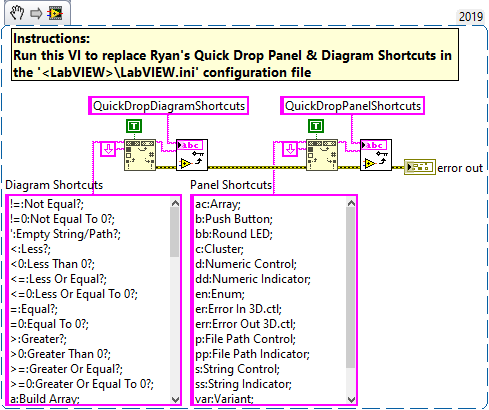
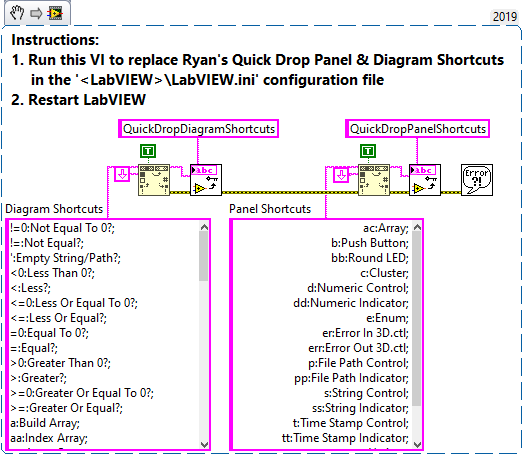
Updated docs

diff --git a/README.md b/README.md
@@ -1,88 +1,67 @@
 # labview_quickdrop
-Ryan's Quick Drop Shortcuts for LabVIEW "that you'll actually use..."
+Ryan's Quick Drop and IDE Plugins for LabVIEW
 
-## Releases
-To install, download and run the VI Package (\*.vip) using JKI's VI Package Management (VIPM) which is installed with LabVIEW.<br>
+After years of LabVIEW development, I got tired of doing the same thing over
+and over again. With the introduction of LabVIEW's Quick Drop Shortcuts, I
+started adding my own custom macros and IDE plugins to help expedite
+development and simplify style guide standardization.
+
+Here are a small collection of plugins I use daily to help expedite LabVIEW
+development.
+
+
+## Installation
+To install, download and run the VI Package (\*.vip) using JKI's VI Package Management (VIPM) which is installed with LabVIEW.
+
+| VI Package | LabVIEW | VIPM |
+| --- | --- | --- |
+| [ryans_quick_drop_shortcuts-0.3.0.23.vip](https://github.com/rcpacini/labview_quickdrop/raw/master/releases/ryans_quick_drop_shortcuts-0.3.0.23.vip) | LV2019+ | 2019+ |
+
 See [releases](releases) to download other versions.
 
-| VI Package | Version | LabVIEW |
-| --- | --- | --- |
-| [ryans_quick_drop_shortcuts-0.1.3.16.vip](https://github.com/rcpacini/labview_quickdrop/raw/master/releases/ryans_quick_drop_shortcuts-0.1.3.16.vip) | v0.1.3.16 | 2019 |
 
-Refer to the [Release Notes](docs/ReleaseNotes.md) for version information.<br>
+## Getting Started
+The package installs the Quick Drop Shortcuts and Tools Menu Plugins to
+`<LabVIEW>\resource\dialog\QuickDrop\plugins` and `<LabVIEW>\project`
+directories respectively.
 
-## Quick Drop - Panel & Diagram Shortcuts
-Download and run the following VI Snippet to replace the Quick Drop Panel & Diagram Shortcuts in the LabVIEW.ini configuration file.
 
-![Ryans Quick Drop Shortcuts](docs/PanelDiagramShortcuts.png)
+### Quick Drop - Plugins
+
+| Shortcut | Quick Drop Plugins |
+| --- | --- |
+| `Ctrl-A` | [Arrange Panel or Diagram](docs/Arrange.md) |
+| `Ctrl-E` | [Resize Window](docs/ResizeWindow.md) |
+| `Ctrl-S` | [Execute Script](docs/ExecuteScript.md) |
+
+
+### Quick Drop - Panel and Diagram Shortcuts
+
+**(Optional)** Run the [Panel and Diagram Shortcuts](https://github.com/rcpacini/labview_quickdrop/raw/master/QuickDrop/plugins/_Script/_PanelDiagramShortcuts.vi)
+VI to replace the Quick Drop Panel & Diagram Shortcuts.
+***Note: LabVIEW must be restarted to reload the Quick Drop Shortcuts.***
+
+![Ryans Quick Drop Shortcuts](docs/ShortcutsScreenshot.png)
 
 [Download](https://github.com/rcpacini/labview_quickdrop/raw/master/docs/PanelDiagramShortcuts.png)
 
-## Quick Drop Shortcuts - Plugins
-There are a total of 4 Quick Drop Plugins I use daily:
 
-| Key | Plugin |
+### Tools Menu - Plugins
+
+| Tools Menu Plugins | Description |
 | --- | --- |
-| `Ctrl-A` | [Arrange Diagram](#ctrl-a-=-arrange-diagram) |
-| `Ctrl-E` | [Resize Diagram](#ctrl-e-=-resize-diagram) |
-| `Ctrl-G` | [Get Object Info](#ctrl-g-=-get-object-info) |
-| `Ctrl-S` | [Execute Script](#ctrl-s-=-execute-script) |
+| [`Tools > Project Properties...`](docs/ProjectProperties.md) | View VI Properties for the entire Project side-by-side. |
 
-I quickly realized there aren't enough keys on the keyboard for each Quick Drop shortcut I needed. So instead, I created the **Execute Script** plugin which uses the Quick Drop Textbox to define a series of commands to execute on the selected panel or diagram objects. The plugin includes built-in help and a shortcut configuration editor (similar to the Quick-Drop Plugins dialog). <br>
-Refer to the [Execute Script](docs/ExecuteScript.md) for support to add your own extensions.
+## Build
+To edit the source code, open the `QuickDrop\RyansQuickDropShortcuts.lvproj`
+project in LabVIEW 2019+, keep the `VI_Tree.vi` open to ensure all VI
+dependencies are loaded while editing. Save the project.
 
-### `Ctrl-A` = Arrange Diagram
-Arranges diagram (`Ctrl-A`) cleans up the selected block diagram objects using their adjacent position of the source or destination terminals (left-to-right or right-to-left). If nothing is selected, this horizontally aligns the top level diagram control and indicator terminals. `Ctrl-Shift-A` reverses the order to arrange the diagram (right-to-left). Use these in combination to clean up the block diagram quickly.
+To rebuild the VI Package, open the `QuickDrop\RyansQuickDropShortcuts.vipb`
+VI Package Build in VI Package Manager 2019+, edit the package details.
+Press Build to output the VI Package (\*.vip) into the `releases` directory.
 
-Object alignment depends on the **number of connected terminals** and the **arrange order (Left-to-Right or Right-to-Left)**. If more that one terminal is connected, the following defines which terminal used to align:
-
-| # Ins | # Outs | `Ctrl=-A` (L2R) | `Ctrl-Shift-A` (R2L) |
-| --- | --- | --- | --- |
-| 1+ | 0 | Bottom-Left Input | Top-Left Input |
-| 0 | 1+ | Bottom-Right Output | Top-Right Output |
-| 1+ | 1+ | Bottom-Left Input | Bottom-Right Output |
-
-![Arrange Diagram gif](docs/ArrangeDiagram.gif)
-
-
-### `Ctrl-E` = Resize Diagram
-Resizes the block diagram window to fit the content. (Front Panel focus does nothing).
-
-![Resize Diagram gif](docs/ResizeDiagram.gif)
-
-
-### `Ctrl-G` = Get Object Info
-Displays basic information about the panel or diagram object selected such as VI Server Class ID, Class Name, Class Hierarchy, Master Bound Rectangle, etc. This is useful during development of VI Scripting.
-
-![Get Object Info gif](docs/GetInfo.gif)
-
-
-### `Ctrl-S` = Execute Script
-Executes a series of VI scripts (i.e. macros) using the Quick Drop textbox arguments (separated by space) on the selected panel or diagram objects. By default, there are a bunch of [Built-in Scripts](docs/ExecuteScript.md) for common operations, such as: align + distribute objects, connect terminals to pane, change representation and hide/show display objects. <br>
-Refer to the [Execute Script](docs/ExecuteScript.md) page for more information.
-
-Getting Started: `Ctrl-Space + "help" + Ctrl-S`
-
-![Execute Script Help gif](docs/ExecuteScriptHelp.gif)
-
-*Script Example:*<br> Select a Numeric Control, open Quick Drop (`Ctrl-Space`), type `u8 h rx -- Data in`, then press `Ctrl-S` to change the selected numeric control to **U8 representation**, hide the **+/- buttons** and display the **radix in hex** and rename the label to **"Data in"**.
-
-![Execute Script gif](docs/ExecuteScript.gif)
-
-#### Ctrl-S | Execute Script - Custom Plugins
-Create your own script plugins using the VI Template:<br>
-`<labview>\resource\dialog\QuickDrop\plugins\_Script\Script_Template.vit`.<br>
-Save the VI to the `_Script` directory and edit the VI Description to update the `[SCRIPT]` section with `shortcut=Short Name` (key=value) pairs for the supported shortcuts. <br>
-Refer to the [Execute Script](docs/ExecuteScript.md) page for more information.
-```ini
-// Add VI description
-
-[SCRIPT]
-abc=My Shortcut
---xyz=My Shortcut with Args
-```
-
-## Support
+## Contribution
 Submit a ticket for bug fixes or feature requests. Feedback is welcome!
 
 -Ryan

diff --git a/docs/ExecuteScript.md b/docs/ExecuteScript.md
@@ -1,10 +1,20 @@
-# Ctrl-S | Execute Script
-Executes a series of VI scripts (i.e. macros) using the Quick Drop textbox arguments (separated by space) on the selected panel or diagram objects. By default, there are a bunch of [Built-in Scripts](#script-built-ins) for common operations, such as: align + distribute objects, connect terminals to pane, change representation, hide/show display objects, etc. <br>
+# `Ctrl-S` = Execute Script
+Executes a series of VI scripts (i.e. macros) using the Quick Drop Textbox
+arguments (separated by space) on the selected panel or diagram objects.
+Many scripts are [Built-in](#script-built-ins) for common operations, such as:
+align + distribute objects, connect terminals to pane, change representation,
+hide/show display objects, etc.
 
 Getting Started: `Ctrl-Space` + type "`help`" + `Ctrl-S`
 
 ## Background
-I quickly realized there aren't enough keys on the keyboard for each Quick Drop Plugin needed. So instead, I created the Execute Script plugin which uses the Quick Drop Textbox to define a series of commands to execute on the selected panel or diagram objects. The plugin includes built-in help and a shortcut configuration dialog (similar to the Quick-Drop Plugins dialog) to manage the shortcuts. Refer to [Custom Plugins](#custom-plugins) for support on how to add your own scripts.
+I quickly realized there aren't enough keys on the keyboard for each Quick
+Drop Plugin needed. So instead, I created the Execute Script plugin which uses
+the Quick Drop Textbox to define a series of commands to execute on the
+selected panel or diagram objects. The plugin includes built-in help and a
+shortcut configuration dialog (similar to the Quick-Drop Plugins dialog) to
+manage the shortcuts. Refer to [Custom Plugins](#custom-plugins) for support
+on how to add your own scripts.
 
 ## Script Built-ins
 The following are Built-in shortcuts supported out of the box.
@@ -67,8 +77,7 @@ The following are Built-in shortcuts supported out of the box.
 | `csg` | Change to CSG |
 | `cdb` | Change to CDB |
 | `cxt` | Change to CXT |
-| `v` | Show Label |
-| `vv` | Hide Label |
+
 
 
 Supports | GObject | Selection
@@ -76,7 +85,9 @@ Supports | GObject | Selection
 ### `aa` = Align Left Edges
 Support: `FP / BD` | GObject: `Any` | Selection: `2+`
 
-Aligns the selected panel or diagram objects by edges or centers. This ignores any display objects (i.e. labels, captions, +/- buttons, index display, etc.) during alignment. Requires 2 or more objects selected.
+Aligns the selected panel or diagram objects by edges or centers.
+This ignores any display objects (i.e. labels, captions, +/- buttons, index
+display, etc.) during alignment. Requires 2 or more objects selected.
 
 ![Built-in Align gif](docs/BuiltinAlign.gif)
 
@@ -98,14 +109,23 @@ See [Align Left Edges](#aa-=-align-left-edges).
 ### `asg` = Align Controls Left and Snap to Grid
 Support: `FP / BD` | GObject: `Any` | Selection: `1+`
 
-Aligns the selected panel or diagram objects by the left edge and if panel focused, snaps each control top-left position to the nearest whole grid size (default is 12 px). This is useful to align Sub VI controls and indicators on the Front Panel.
+Aligns the selected panel or diagram objects by the left edge and if panel
+focused, snaps each control top-left position to the nearest whole grid size
+(default is 12 px). This is useful to align Sub VI controls and indicators on
+the Front Panel.
 
 ![Built-in AlignSnap gif](docs/BuiltinAlignSnap.gif)
 
 ### `c` = Connect Pane
 Support: `FP` | GObject: `Controls` | Selection: `1+`
 
-Connects the selected panel controls or indicators to the VI connector pane.  The controls panel position (top-to-bottom, left-to-right) determine the connector pane order, with the exception of the error in/out controls which are always connected bottom-left and bottom-right connector pane positions respectively. Controls are ignored if there are no available connector pane terminals or if the control is already wired on the connector pane. By default, the input connections are set to `Required`.
+Connects the selected panel controls or indicators to the VI connector pane.
+The controls panel position (top-to-bottom, left-to-right) determine the
+connector pane order, with the exception of the error in/out controls which
+are always connected bottom-left and bottom-right connector pane positions
+respectively. Controls are ignored if there are no available connector pane
+terminals or if the control is already wired on the connector pane. By
+default, the input connections are set to `Required`.
 
 ### `cn` = Cluster Size None
 Support: `FP` | GObject: `Cluster / Cluster Constant` | Selection: `1+`
@@ -115,11 +135,17 @@ Support: `FP` | GObject: `Cluster / Cluster Constant` | Selection: `1+`
 ### `cv` = Cluster Size Vertically
 
 ## Script Plugins
-Create your own script plugins by using the `_Script\Script_Template.vit`. Unlike, Quick Drop plugins which can only have single key shortcuts, Script Plugins can handle more than one key characters specified in the VI Description. The VI Description must include a `[SCRIPT]` configuration section formatted with `shortcut=Short Name` key, value pairs.
+Create your own script plugins by using the `_Script\Script_Template.vit`.
+Unlike, Quick Drop plugins which can only have single key shortcuts, Script
+Plugins can handle more than one key characters specified in the VI
+Description. The VI Description must include a `[SCRIPT]` configuration
+section formatted with `shortcut=Short Name` key, value pairs.
 
 Script Plugin VIs:
-1. Must have the same connector pane as `QuickDrop\plugins\_Script\Script_Template.vit`
-2. Must be placed in the `QuickDrop\plugins\_Script` directory (as a VI or in an LLB)
+1. Must have the same connector pane as
+`QuickDrop\plugins\_Script\Script_Template.vit`
+2. Must be placed in the `QuickDrop\plugins\_Script` directory
+(as a VI or in an LLB)
 3.
 
 ```
@@ -135,8 +161,12 @@ Script Plugin VIs:
 ```
 
 ## Script Plugin Execution
-Here is the order of operations when the Execute Script Quick Drop plugin is called:
-1. Create the default shortcut map all VI Descriptions located in the `QuickDrop\plugins\_Script` directory
-2. Import the `QuickDrop\plugins\_Script\shortcuts.txt` to load the user modified shortcut actions.
-3. Parse the Quick Drop textbox arguments and execute the corresponding vi + argument
+Here is the order of operations when the Execute Script Quick Drop plugin
+is called:
+1. Create the default shortcut map all VI Descriptions located in the
+`QuickDrop\plugins\_Script` directory
+2. Import the `QuickDrop\plugins\_Script\shortcuts.txt` to load the user
+modified shortcut actions.
+3. Parse the Quick Drop textbox arguments and execute the corresponding vi +
+argument
 4. Export any modifications to the `shortcuts.txt`

diff --git a/docs/Arrange.md b/docs/Arrange.md
@@ -1,0 +1,66 @@
+# `Ctrl-A` = Arrange Panel or Diagram
+Arrange Panel or Diagram (`Ctrl-A`) cleans up the selected block diagram
+or front panel objects using their position relative to the adjacent object.
+
+There are a few variations depending on the Front Panel (`FP`) or Block Diagram
+(`BD`) focus, if objects are selected (`Objects`), and alternate action
+(`Shift`).
+
+| Variations | Description |
+| --- | --- |
+| `FP` | [Arrange controls and indicators to grid](#fp--ctrl-a) |
+| `FP` + `Shift` | [Arrange controls and indicators to connector pane position](#fp--shift--ctrl-a) |
+| `FP` + `Objects` | [Align selected to left edge](#fp--objects--ctrl-a) |
+| `FP` + `Objects` + `Shift` | [Align selected to top edge](#fp--objects--shift--ctrl-a) |
+| `BD` | [Arrange terminals](#bd--ctrl-a) |
+| `BD` + `Shift` | [Arrange terminals horizontally only](#bd--shift--ctrl-a) |
+| `BD` + `Objects` | [Arrange selected left-to-right](#bd--objects--ctrl-a) |
+| `BD` + `Objects` + `Shift` | [Arrange selected right-to-left](#bd--objects--shift--ctrl-a) |
+
+
+## `FP` + `Ctrl-A`
+Arrange all controls and indicators to grid map. Error clusters are
+prioritized to map to the bottom left and bottom right positions. The controls and indicators are offset from the panel origin. The panel origin is reset to (0, 0).
+
+## `FP` + `Shift` + `Ctrl-A`
+Arrange all controls and indicators to connector pane positions.
+
+## `FP` + `Objects` + `Ctrl-A`
+Align selected to left edge and snap to nearest grid.
+
+## `FP` + `Objects` + `Shift` + `Ctrl-A`
+Align selected to top edge and snap to nearest grid..
+
+## `BD` + `Ctrl-A`
+Align controls and indicators to left and right sides and arrange terminals
+vertically to adjacent object.
+
+## `BD` + `Shift` + `Ctrl-A`
+Align controls and indicators to left and right sides only.
+
+## `BD` + `Objects` + `Ctrl-A`
+Arrange selected objects to the adjacent object sorted left-to-right.
+Constants are arranged adjacent source terminal position (Centered left, top
+or bottom to the destination terminal).
+
+## `BD` + `Objects` + `Shift` + `Ctrl-A`
+Arrange selected objects to the adjacent object sorted right-to-left.
+
+
+On the diagram, of the source or destination terminals (left-to-right
+or right-to-left). If nothing is selected, this horizontally aligns the top
+level diagram control and indicator terminals. `Ctrl-Shift-A` reverses the
+order to arrange the diagram (right-to-left). Use these in combination to clean
+up the block diagram quickly.
+
+Object alignment depends on the **number of connected terminals** and the
+**arrange order (Left-to-Right or Right-to-Left)**. If more that one terminal
+is connected, the following defines which terminal used to align:
+
+| # Ins | # Outs | `Ctrl=-A` (L2R) | `Ctrl-Shift-A` (R2L) |
+| --- | --- | --- | --- |
+| 1+ | 0 | Bottom-Left Input | Top-Left Input |
+| 0 | 1+ | Bottom-Right Output | Top-Right Output |
+| 1+ | 1+ | Bottom-Left Input | Bottom-Right Output |
+
+![Arrange Diagram gif](docs/ArrangeDiagram.gif)

diff --git a/docs/ResizeWindow.md b/docs/ResizeWindow.md
@@ -1,0 +1,26 @@
+# `Ctrl-E` = Resize Diagram
+Resizes the front panel or block diagram window to fit the content.
+
+There are a few variations depending on Front Panel (`FP`) or Block Diagram
+(`BD`) focus, and Alternate action (`Shift`).
+
+| Variations | Summary |
+| --- | --- |
+| [FP](#fp--ctrl-e) | Resize the panel window to content and reset the panel origins |
+| [FP + Shift](#fp--shift--ctrl-e) | Resize the panel window to content only |
+| [BD](#bd--ctrl-e) | Resize the diagram window to content |
+
+## `FP` + `Ctrl-E`
+Resize the panel window to content and reset the panel origins to (0, 0).
+
+![Resize Panel gif](ctrl-e_fp.gif)
+
+## `FP` + `Shift` + `Ctrl-E`
+Resize the panel window to content only.
+
+![Resize Panel Alt gif](ctrl-e_fp_shift.gif)
+
+## `BD` + `Ctrl-E`
+Resizes the diagram window to content.
+
+![Resize Diagram gif](ctrl-e_bd.gif)
